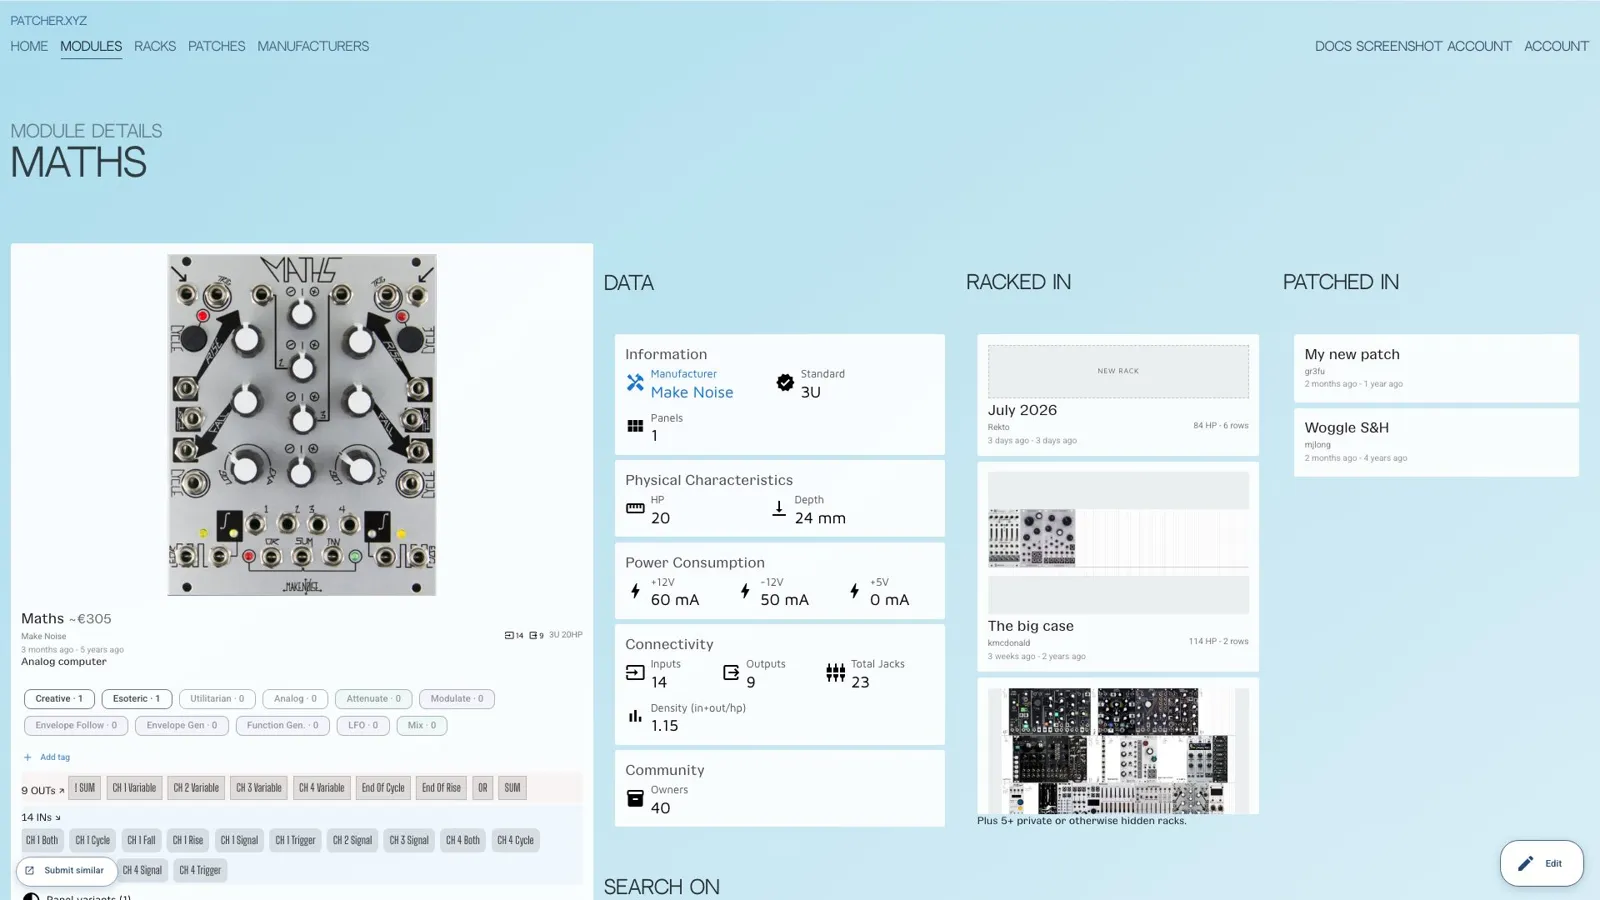
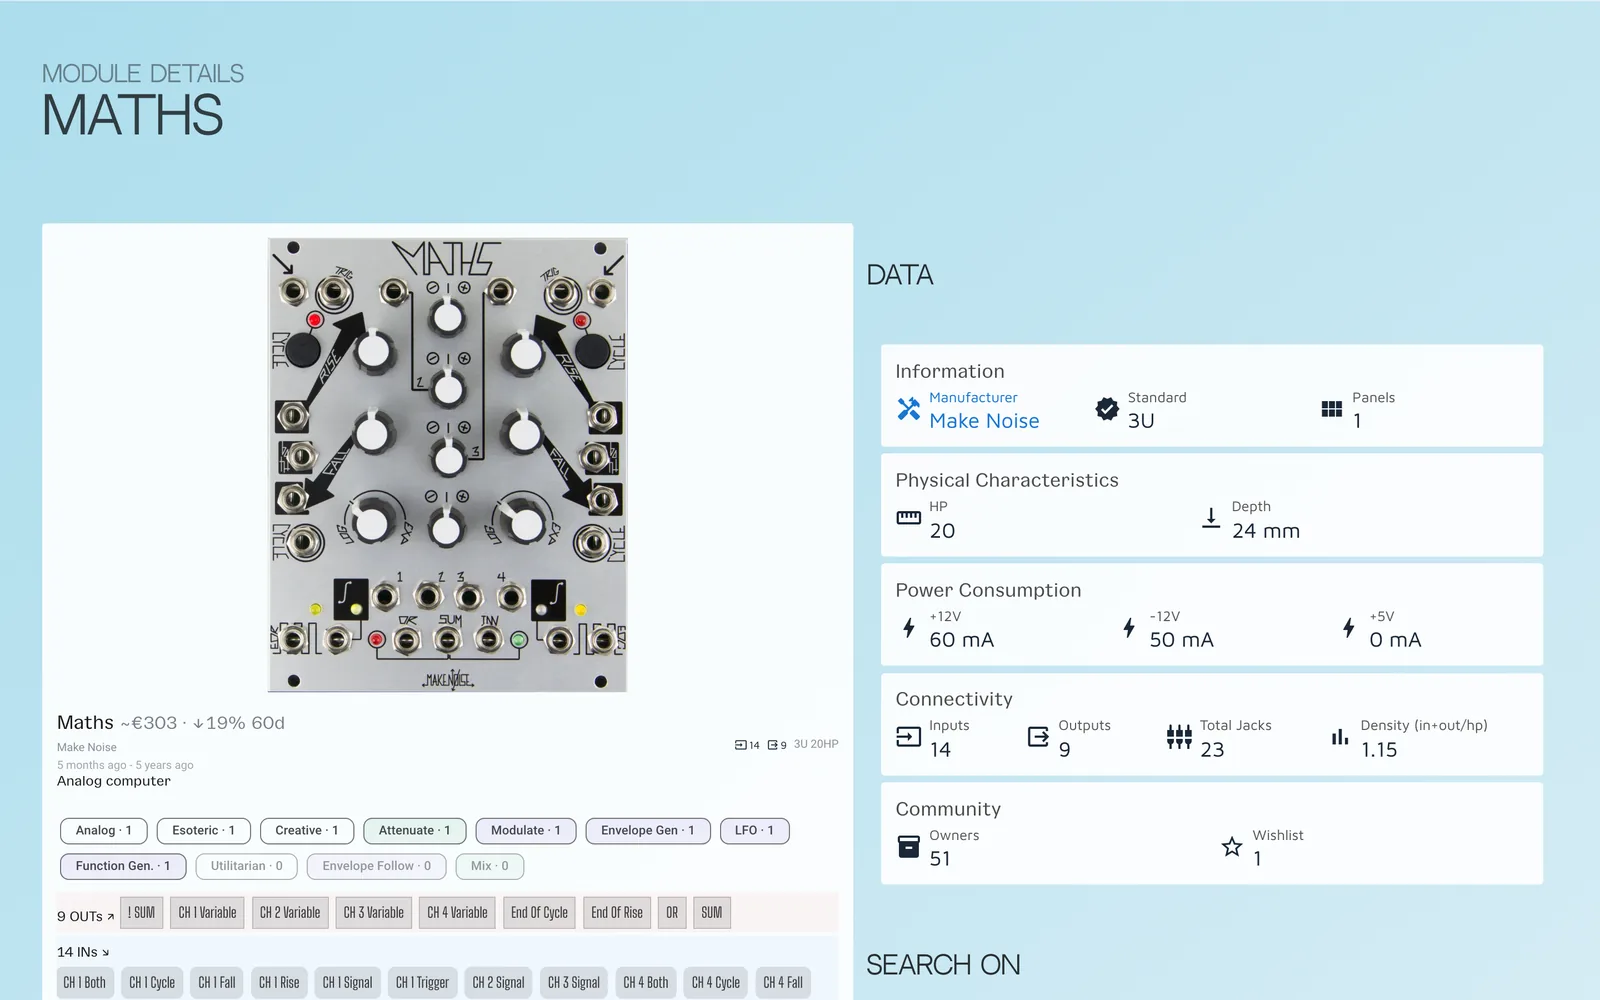
feat(home): add art-directed tour shots, drop stale dark overrides and cover new sections in e2e

diff --git a/src/app/style/theme-dark.scss b/src/app/style/theme-dark.scss
@@ -463,150 +463,23 @@ html.dark {
   }
 }
 
-// ── Pass 3b: home page (var-driven) ──────────────────────────────────────────
+// ── Pass 3b: shared intro typography (the homepage itself is token-driven) ──────
 html.dark {
-  app-home,
-  .home-page {
-    --home-ink-strong: #eaf2fa;
-    --home-ink: rgba(208, 222, 238, 0.88);
-    --home-surface: rgba(21, 28, 38, 0.88);
-    --home-border: rgba(148, 184, 220, 0.18);
-    --home-accent: #8fb8e8;
-  }
 
-  .home-page::before {
-    background:
-      radial-gradient(circle at 10% 3%, rgba(63, 140, 220, 0.2), transparent 34%),
-      radial-gradient(circle at 82% 8%, rgba(220, 120, 50, 0.12), transparent 36%),
-      radial-gradient(circle at 78% 82%, rgba(46, 170, 130, 0.12), transparent 38%),
-      linear-gradient(145deg, #0e1826 0%, #0d1d17 52%, #20170d 100%);
-  }
-
-  .home-page::after {
-    background-image:
-      linear-gradient(rgba(255, 255, 255, 0.05) 1px, transparent 1px),
-      linear-gradient(90deg, rgba(255, 255, 255, 0.05) 1px, transparent 1px);
-    opacity: 0.5;
-  }
-
-  .insights-methodology {
-    color: rgba(198, 213, 230, 0.78);
-  }
-
-  // Home cards that ship as white translucency.
-  .note-shell,
-  .final-cta-card,
-  .discovery-shell,
-  .workflow-shell,
-  .proof-shell,
-  .principles-shell,
-  .bridge-card,
-  .curiosity-shell {
-    background: linear-gradient(165deg, rgba(27, 36, 49, 0.92), rgba(17, 26, 38, 0.9));
-    border-color: var(--app-border);
-  }
-
-  .tone-patch,
-  .tone-module,
-  .tone-rack {
-    background: linear-gradient(165deg, rgba(27, 36, 49, 0.94), rgba(20, 30, 44, 0.9));
-  }
-
-  .proof-kicker {
-    color: rgba(158, 178, 199, 0.68);
-  }
-
-  .proof-description strong {
-    color: #a9c9ef;
-    background: linear-gradient(180deg, transparent 58%, rgba(143, 184, 232, 0.22) 58%);
-  }
-
-  // Inner home typography that hardcodes ink-navy instead of the home vars.
+  // Shared intro/eyebrow typography that hardcodes ink-navy in light mode.
   .section-intro {
     color: rgba(198, 213, 230, 0.82);
   }
 
-  .step-kicker {
-    color: rgba(158, 178, 199, 0.66);
-  }
-
-  .principle-card,
-  .workflow-step {
-    background: rgba(255, 255, 255, 0.045);
-    border-color: rgba(148, 184, 220, 0.14);
-  }
-
-  .principle-card p strong,
-  .workflow-step p strong {
-    color: #a9c9ef;
-    background: linear-gradient(180deg, transparent 58%, rgba(143, 184, 232, 0.22) 58%);
-  }
-
-  .visual-float {
-    border-color: rgba(148, 184, 220, 0.24);
-  }
-
-  // Discovery mode toggle + ranking meta.
-  .home-discovery__mode-button {
-    background: rgba(27, 36, 49, 0.85);
-    border-color: rgba(148, 184, 220, 0.28);
-    color: rgba(215, 228, 242, 0.9);
-  }
-
-  .home-discovery__mode-button:hover {
-    background: rgba(35, 46, 61, 0.95);
-    border-color: rgba(148, 184, 220, 0.42);
-  }
-
-  .home-discovery__mode-button--active {
-    background: rgba(143, 184, 232, 0.16);
-    border-color: rgba(143, 184, 232, 0.45);
-    color: rgba(240, 246, 252, 0.96);
-  }
-
-  .home-discovery__rank,
-  .home-discovery__manufacturer,
-  .home-discovery__count,
-  .home-discovery__empty {
-    color: rgba(158, 178, 199, 0.68);
-  }
-
-  // Curiosity-bridge gradient shell + accent link.
-  .curiosity-shell,
-  .bridge-shell,
-  .community-card {
-    background: linear-gradient(160deg, rgba(27, 36, 49, 0.92), rgba(24, 28, 38, 0.9));
-    border-color: var(--app-border);
-  }
-
-  .community-links a {
-    background: rgba(143, 184, 232, 0.12);
-    border-color: rgba(143, 184, 232, 0.3);
-    color: #9cc2ec;
-  }
-
-  .note-kicker,
-  .note-role {
-    color: rgba(158, 178, 199, 0.68);
-  }
-
-  .story-item {
-    background: rgba(255, 255, 255, 0.04);
-    border-color: rgba(148, 184, 220, 0.16);
-  }
-
-  // Experience hero specifics.
   .eyebrow {
     color: rgba(198, 213, 230, 0.68);
   }
 
-  .subtitle strong,
-  .visual-caption strong {
+  .subtitle strong {
     color: #a9c9ef;
     background: linear-gradient(180deg, transparent 58%, rgba(143, 184, 232, 0.22) 58%);
   }
 
-  .source-link,
   .module-filter-toggle,
   .module-browser-mode__button {
     background: rgba(27, 36, 49, 0.85);
@@ -614,21 +487,10 @@ html.dark {
     color: rgba(215, 228, 242, 0.92);
   }
 
-  .source-link:hover,
   .module-filter-toggle:hover,
   .module-browser-mode__button:hover {
     background: rgba(35, 46, 61, 0.95);
     border-color: rgba(148, 184, 220, 0.42);
-  }
-
-  .visual-main,
-  .visual-float {
-    background: #151c26;
-    border-color: rgba(148, 184, 220, 0.2);
-  }
-
-  .visual-caption {
-    color: rgba(198, 213, 230, 0.78);
   }
 
   .module-browser-mode {

diff --git a/e2e/home.spec.ts b/e2e/home.spec.ts
@@ -11,8 +11,8 @@ import {
  * Covers:
  *  - Page loads and hero heading renders
  *  - Auth entry-point CTAs are present and navigate correctly
- *  - Deferred content sections appear on scroll (proof showcase, statistics,
- *    open principles, workflow rail, invitation CTA)
+ *  - System tour tabs, ModularGrid anchor, API section, community rankings and
+ *    closing CTA render and behave
  *  - Mobile viewport: hero heading remains visible and readable
  */
 test.describe('Home Page', () => {
@@ -61,37 +61,36 @@ test.describe('Home Page', () => {
     await expect(page).toHaveURL(/auth\/login/, {timeout: 10_000});
   });
 
-  // ─── Deferred sections ─────────────────────────────────────────────────────
+  // ─── Sections ──────────────────────────────────────────────────────────────
 
-  test('at least one proof-showcase section is visible', async ({page}) => {
-    // The proof-list section contains deferred app-home-proof-showcase items.
-    // Scroll to trigger the viewport trigger.
-    await page.locator('section[aria-label="product walkthrough"]').scrollIntoViewIfNeeded();
-    const firstShowcase = page.locator('app-home-proof-showcase').first();
-    await expect(firstShowcase).toBeVisible({timeout: 15_000});
+  test('system tour switches panels from the tab list', async ({page}) => {
+    const tablist = page.getByRole('tablist', {name: /what patcher keeps track of/i});
+    await tablist.scrollIntoViewIfNeeded();
+    await expect(page.getByRole('tabpanel')).toHaveCount(1);
+    await tablist.getByRole('tab', {name: /patches/i}).click();
+    await expect(page.locator('#home-tour-panel-patches')).toBeVisible();
+    await expect(page.locator('#home-tour-panel-library')).toBeHidden();
   });
 
-  test('product walkthrough renders multiple showcase cards', async ({page}) => {
-    await page.locator('section[aria-label="product walkthrough"]').scrollIntoViewIfNeeded();
-    await expect.poll(
-      () => page.locator('app-home-proof-showcase').count(),
-      {timeout: 15_000}
-    ).toBeGreaterThanOrEqual(3);
+  test('ModularGrid hook in the hero scrolls to the switch section', async ({page}) => {
+    await page.getByRole('link', {name: /bring your racks/i}).click();
+    await expect(page.locator('#switch')).toBeInViewport({timeout: 5_000});
+    await expect(page.locator('#switch h2')).toContainText(/ModularGrid/);
   });
 
-  test('open principles section is visible', async ({page}) => {
-    await scrollUntilVisible(page, 'app-home-open-principles');
+  test('developer API section links to the public API reference', async ({page}) => {
+    const api = await scrollUntilVisible(page, 'app-home-api-section');
+    await expect(api.locator('a[href*="docs.patcher.xyz/reference/public-open-api"]')).toBeVisible();
   });
 
-  test('workflow rail section is visible', async ({page}) => {
-    await scrollUntilVisible(page, 'app-home-workflow-rail');
+  test('community rankings load on scroll', async ({page}) => {
+    await scrollUntilVisible(page, 'app-home-discovery-section');
   });
 
-  test('invitation CTA section contains a second set of action links', async ({page}) => {
-    const cta = await scrollUntilVisible(page, 'app-home-invitation-cta');
-    await expect(cta).toBeVisible({timeout: 15_000});
-    // The invitation CTA must expose at least one action link
-    await expect(cta.locator('a[href]').first()).toBeVisible({timeout: 5_000});
+  test('closing CTA exposes sign-up and browse actions', async ({page}) => {
+    const cta = await scrollUntilVisible(page, 'app-home-closing-cta');
+    await expect(cta.locator('a[href="/auth/signup"]')).toBeVisible();
+    await expect(cta.locator('a[href="/modules/browser"]')).toBeVisible();
   });
 
   // ─── Responsive ────────────────────────────────────────────────────────────

diff --git a/src/app/features/backbone/home/home-copy.ts b/src/app/features/backbone/home/home-copy.ts
@@ -37,7 +37,7 @@ export const HOME_TOUR_TABS: HomeTourTab[] = [
     shot: {
       light: `${SHOT_ROOT}/tour-library-light.webp`,
       dark: `${SHOT_ROOT}/tour-library-dark.webp`,
-      alt: 'Module page in Patcher showing the panel, HP, depth, power draw and jack list'
+      alt: 'Module page for Make Noise Maths in Patcher with the panel, HP, depth, power draw and jack list'
     }
   },
   {
@@ -55,7 +55,7 @@ export const HOME_TOUR_TABS: HomeTourTab[] = [
     shot: {
       light: `${SHOT_ROOT}/tour-racks-light.webp`,
       dark: `${SHOT_ROOT}/tour-racks-dark.webp`,
-      alt: 'Rack page in Patcher with module panels laid out in rows and power analysis'
+      alt: 'Rack page in Patcher with power, depth and balance analysis above the module layout'
     }
   },
   {

diff --git a/src/app/features/backbone/home/components/home-system-tour/home-system-tour.component.scss b/src/app/features/backbone/home/components/home-system-tour/home-system-tour.component.scss
@@ -174,8 +174,8 @@
   display: block;
   inline-size: 100%;
   block-size: 100%;
-  object-fit: cover;
-  object-position: top center;
+  // Shots are captured at exactly 16:10, so contain never letterboxes and never crops.
+  object-fit: contain;
   animation: tour-in 140ms ease-out;
 }
 

diff --git a/internaldocs/workflow/plans/homepage-marketing-rebuild.md b/internaldocs/workflow/plans/homepage-marketing-rebuild.md
@@ -56,13 +56,13 @@ Status: Active on `develop`, frontend-only. No schema/migration/RLS/RPC change. 
 
 ## Layer 2 — Structural (assets, auth awareness, cleanup)
 
-- [ ] Fresh art-directed screenshots (module / rack / patch detail) in light and dark, WebP, theme-switched
-- [ ] Auth-aware CTAs (signed-in users get workspace links instead of sign-up)
-- [ ] Analytics: `home.cta_clicked` with `{cta, location}` per `patterns/ANALYTICS.md`
+- [x] Fresh art-directed screenshots (module / rack / patch detail) in light and dark, WebP, theme-switched
+- [x] Auth-aware CTAs (signed-in users get workspace links instead of sign-up)
+- [x] Analytics: `home.cta_clicked` with `{cta, location}` per `patterns/ANALYTICS.md`
 - [x] Developer API section (owner request mid-build): facts, real Maths request/response sample, docs + key CTAs
 - [x] Delete dead home components (proof-showcase, workflow-rail, curiosity-bridge, founder-note, insights-section,
       open-principles/invitation-cta if superseded) + their specs + dead `theme-dark.scss` overrides
-- [ ] SEO title/description refreshed; e2e `home.spec.ts` updated to the new sections
+- [x] SEO title/description refreshed; e2e `home.spec.ts` updated to the new sections
 
 ## Layer 3 — Polish
 
@@ -97,6 +97,15 @@ Status: Active on `develop`, frontend-only. No schema/migration/RLS/RPC change. 
   marketing copy to crawlers, and the hero's "Bring your racks" anchor can scroll to a stable position.
 - 2026-10-07: `ng lint` OOMs under local Node 26 (environment, unrelated); validated with scoped eslint on the home
   folder plus every custom check in the `lint` script.
+
+- 2026-10-07: Tour shots are captured by Playwright at 1440x900 @2x (shell chrome hidden, 2rem side padding) and
+  saved as 1600x1000 WebP, so the 16:10 frame uses `object-fit: contain` and never crops (owner saw the interim 16:9
+  images cut off left/right). Only the active tab's image loads (`[hidden]` panels + `loading="lazy"`).
+- 2026-10-07: Removed orphaned homepage rules from `theme-dark.scss` Pass 3b (old gradients, cards, discovery toggle
+  overrides that fought the new token styling); kept selectors still used elsewhere (`.section-intro`, `.eyebrow`,
+  module-browser toggles).
+- 2026-10-07: e2e `home.spec.ts` + navigation + asset-recovery: 22/22 pass on Chromium. WebKit runs fail locally only
+  because the WebKit binary is not installed (`browserType.launch: Executable doesn't exist`).
 
 ## Documentation impact
 

diff --git a/internaldocs/workflow/CURRENT_FEATURE.md b/internaldocs/workflow/CURRENT_FEATURE.md
@@ -26,7 +26,7 @@
 
 #### Layer 2 — Structural
 
-- [ ] Art-directed light/dark screenshots, auth-aware CTAs, analytics, dead component cleanup, SEO, e2e
+- [x] Art-directed light/dark screenshots, auth-aware CTAs, analytics, dead component cleanup, SEO, e2e
 
 #### Layer 3 — Polish
 
